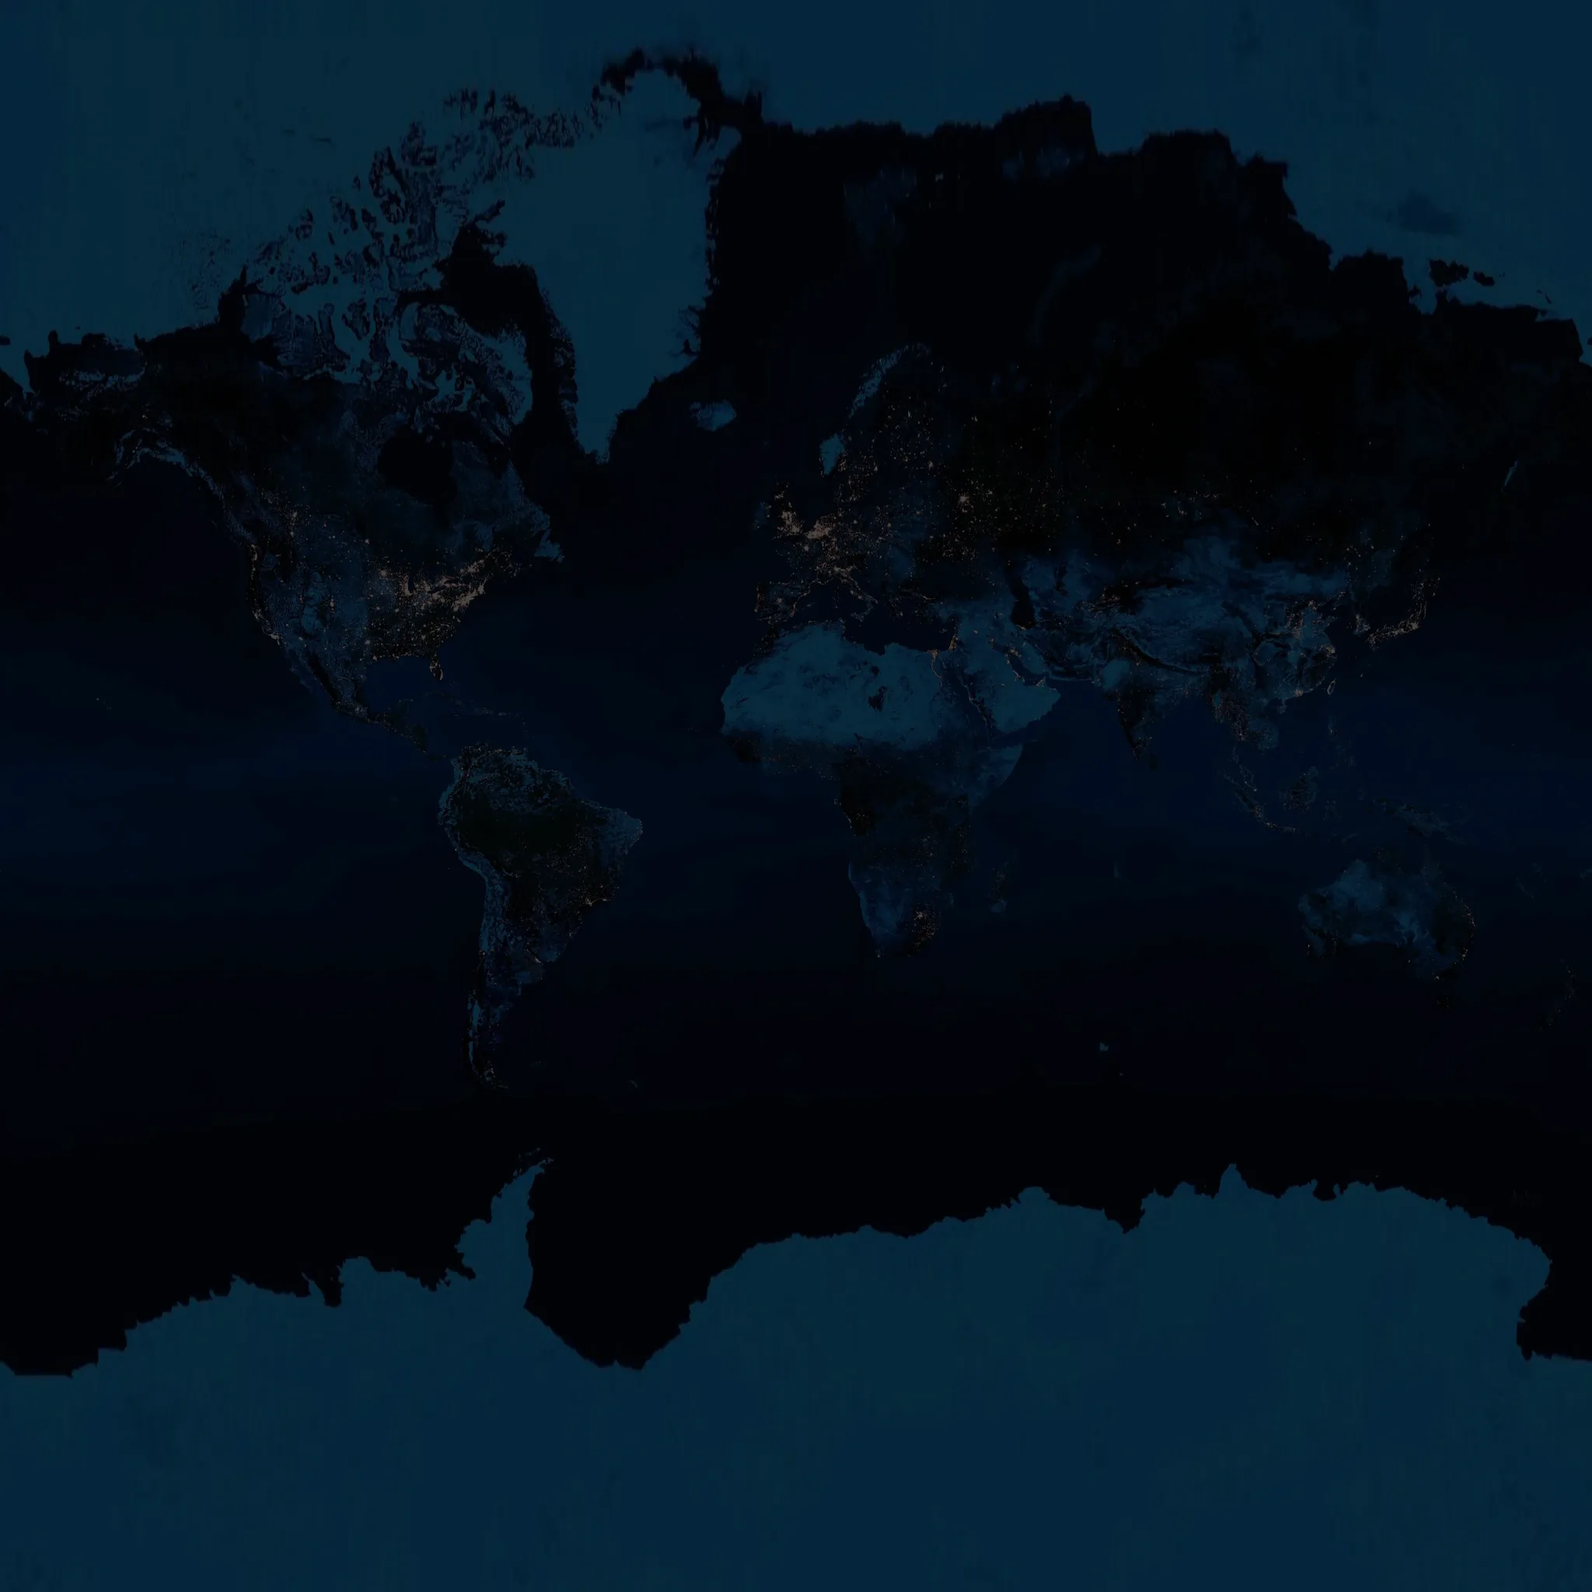
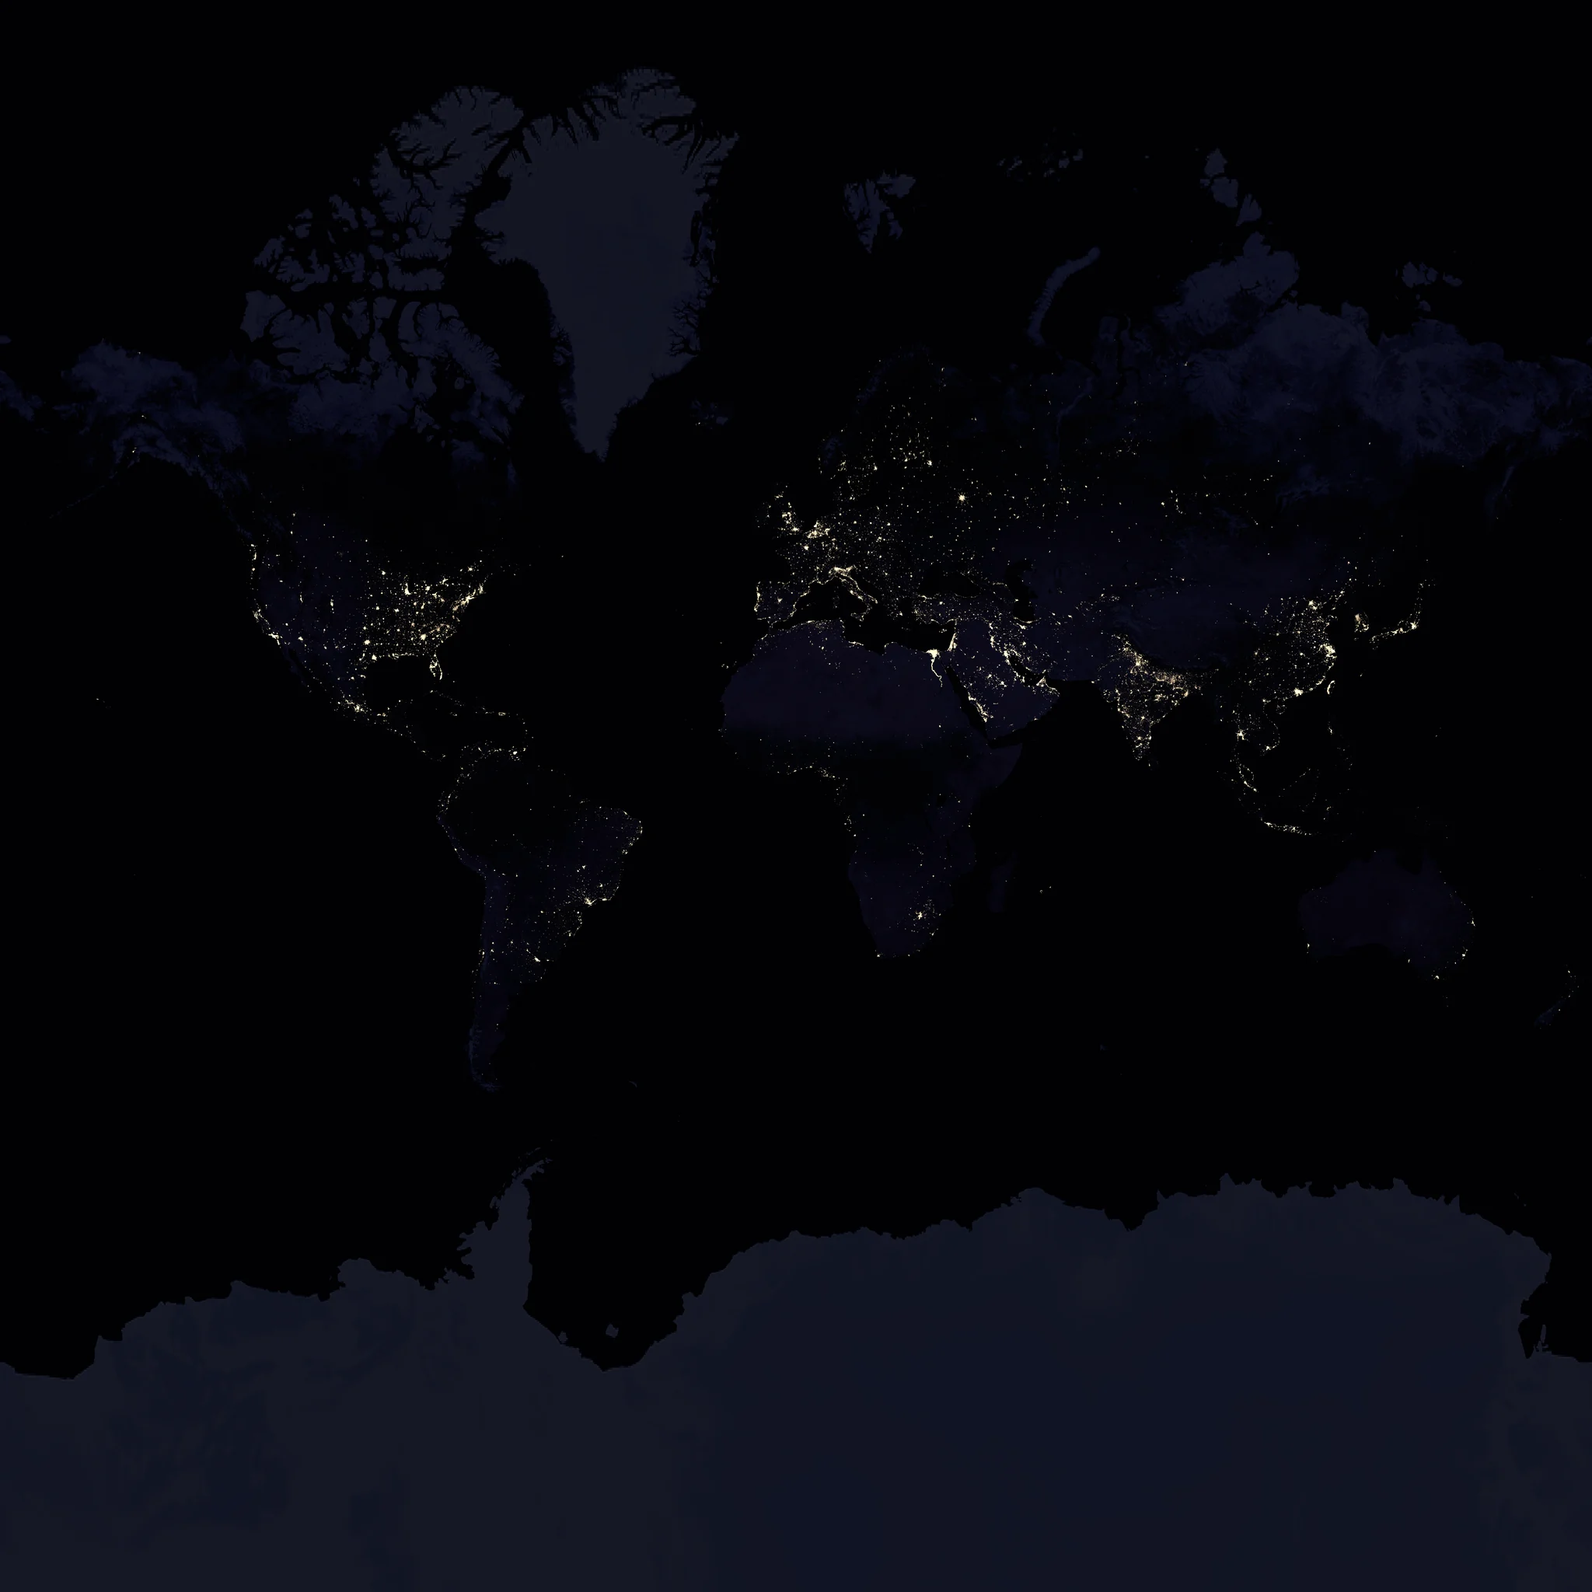
Photorealistic hero Earth: 8K NASA surface, cloud shell, night lights, ocean glint, relief and sunlit atmosphere
Claude-Session: https://claude.ai/code/session_013zk2Cmn7SncUXYSxzr8PKj

diff --git a/src/scripts/hero-globe.ts b/src/scripts/hero-globe.ts
@@ -2,8 +2,6 @@
  * Homepage globe (globe.gl / three.js). Loaded only when the hero is on screen
  * and the browser supports WebGL. Markers are city-level aggregates of listings.
  */
-import { feature } from 'topojson-client';
-import type { Topology, GeometryCollection } from 'topojson-specification';
 import { sunAt } from '@/lib/sun';
 
 export interface CityPoint { city: string; country: string; lat: number; lng: number; count: number }
@@ -11,29 +9,45 @@ export interface CityPoint { city: string; country: string; lat: number; lng: nu
 export interface Handoff { lat: number; lng: number; altitude: number; fov: number; w: number; h: number; top: number; left: number; at: number; image?: string }
 
 export async function mountHeroGlobe(el: HTMLElement, points: CityPoint[], opts: { onSelect: (p: CityPoint) => void }) {
-  const [{ default: Globe }, THREE, topo] = await Promise.all([
-    import('globe.gl'),
-    import('three'),
-    fetch('/data/countries-110m.json').then((r) => r.json() as Promise<Topology>),
-  ]);
-  const countries = feature(topo, topo.objects.countries as GeometryCollection).features;
+  const [{ default: Globe }, THREE] = await Promise.all([import('globe.gl'), import('three')]);
   const reduce = matchMedia('(prefers-reduced-motion: reduce)').matches;
   type Ring = { lat: number; lng: number; me?: boolean };
   const cityRings: Ring[] = points.filter((p) => p.count >= 5);
 
-  // The real Earth (NASA imagery, public domain), lit by the real sun right now: daylight on one side,
-  // city lights on the other, like looking at it from space. Big screens get sharper textures.
-  const big = Math.max(screen.width, screen.height) * (devicePixelRatio || 1) > 1800 && !matchMedia('(max-width: 760px)').matches;
-  const size = big ? 4096 : 2048;
+  // A photographed-from-space Earth, in layers (sources and licences in public/images/earth/SOURCES.md):
+  // NASA Blue Marble surface, a separate cloud shell, NASA Black Marble city lights on the night side,
+  // a water mask for sun glint on the oceans, an elevation map for relief, and a thin sunlit atmosphere.
+  // Phones start with 2K textures, desktops with 4K; big, sharp screens move up to the 8K surface once idle.
+  const phone = matchMedia('(max-width: 760px)').matches || Math.max(screen.width, screen.height) < 900;
+  const dpr = devicePixelRatio || 1;
+  const size = phone ? 2048 : 4096;
   const loader = new THREE.TextureLoader();
-  const tex = (url: string) => new Promise<InstanceType<typeof THREE.Texture>>((res, rej) => loader.load(url, (t) => { t.colorSpace = THREE.SRGBColorSpace; t.anisotropy = 4; res(t); }, undefined, rej));
-  const [day, night] = await Promise.all([tex(`/images/earth/blue-marble-${size}.webp`), tex(`/images/earth/night-${size}.webp`)]);
+  let aniso = 4;
+  const tex = (url: string, color = true) => new Promise<InstanceType<typeof THREE.Texture>>((res, rej) => loader.load(url, (t) => {
+    t.colorSpace = color ? THREE.SRGBColorSpace : THREE.NoColorSpace;
+    t.anisotropy = aniso;
+    t.minFilter = THREE.LinearMipmapLinearFilter;
+    t.magFilter = THREE.LinearFilter;
+    res(t);
+  }, undefined, rej));
+  const E = '/images/earth';
+  const [day, night, clouds, water, height] = await Promise.all([
+    tex(`${E}/earth-day-${size}.webp`), tex(`${E}/earth-night-${size}.webp`), tex(`${E}/earth-clouds-${size}.webp`, false),
+    tex(`${E}/earth-water-4096.webp`, false), tex(`${E}/topology-2048.webp`, false),
+  ]);
+  /** A direction from latitude and longitude, on the same axes as three-globe's own coordinates. */
+  const polar = (lat: number, lng: number) => {
+    const phi = ((90 - lat) * Math.PI) / 180, theta = ((90 - lng) * Math.PI) / 180;
+    return new THREE.Vector3(Math.sin(phi) * Math.cos(theta), Math.cos(phi), Math.sin(phi) * Math.sin(theta));
+  };
+  const sunDir = new THREE.Vector3();
+  const setSun = () => { const [lng, lat] = sunAt(new Date()); sunDir.copy(polar(lat, lng)); };
+  setSun();
   const earth = new THREE.ShaderMaterial({
     uniforms: {
-      dayTexture: { value: day },
-      nightTexture: { value: night },
-      sunPosition: { value: new THREE.Vector2(...sunAt(new Date())) },
-      globeRotation: { value: new THREE.Vector2() },
+      dayMap: { value: day }, nightMap: { value: night }, cloudMap: { value: clouds }, waterMap: { value: water }, heightMap: { value: height },
+      heightTexel: { value: new THREE.Vector2(1 / 2048, 1 / 1024) },
+      sunDir: { value: sunDir },
     },
     vertexShader: VERT,
     fragmentShader: FRAG,
@@ -43,15 +57,9 @@ export async function mountHeroGlobe(el: HTMLElement, points: CityPoint[], opts:
     .globeMaterial(earth)
     .showGlobe(true)
     .showGraticules(false)
-    .atmosphereColor('#a9c8ff')
-    .atmosphereAltitude(0.13)
-    .onZoom(({ lng, lat }) => earth.uniforms.globeRotation!.value.set(lng, lat))
-    // Countries: no fill, just a whisper of a border, so the planet reads as itself.
-    .polygonsData(countries)
-    .polygonAltitude(0.002)
-    .polygonCapColor(() => 'rgba(0,0,0,0)')
-    .polygonSideColor(() => 'rgba(0,0,0,0)')
-    .polygonStrokeColor(() => 'rgba(255,255,255,0.08)')
+    // The atmosphere is drawn below as a sunlit shell, so the built-in, evenly lit halo is off.
+    // No country lines either: a photograph from space has none.
+    .showAtmosphere(false)
     // City markers: icy points sized by listing count
     .pointsData(points)
     .pointLat('lat')
@@ -74,20 +82,50 @@ export async function mountHeroGlobe(el: HTMLElement, points: CityPoint[], opts:
     .ringPropagationSpeed((d: object) => ((d as Ring).me ? 0.9 : 0.8))
     .ringRepeatPeriod((d: object) => ((d as Ring).me ? 1200 : 2200));
 
-  // Diving in: swap to the sharp textures once, so the close-up isn't blurry (phones start light).
-  let sharp = big;
+  // Layers above the surface: clouds just over the ground, then the thin atmosphere.
+  const R = globe.getGlobeRadius();
+  const cloudMat = new THREE.ShaderMaterial({
+    uniforms: { cloudMap: { value: clouds }, sunDir: { value: sunDir } },
+    vertexShader: VERT, fragmentShader: CLOUD_FRAG, transparent: true, depthWrite: false,
+  });
+  const cloudMesh = new THREE.Mesh(new THREE.SphereGeometry(R * 1.004, 128, 96), cloudMat);
+  const airMat = new THREE.ShaderMaterial({
+    uniforms: { sunDir: { value: sunDir }, R: { value: R }, Ra: { value: R * 1.032 } },
+    vertexShader: VERT, fragmentShader: AIR_FRAG, side: THREE.BackSide, transparent: true, depthWrite: false, blending: THREE.AdditiveBlending,
+  });
+  const airMesh = new THREE.Mesh(new THREE.SphereGeometry(R * 1.032, 128, 96), airMat);
+  // three-globe turns its sphere so the map lines up with its coordinates; the shells take the same turn.
+  const surface = globe.scene().getObjectByProperty('material', earth);
+  if (surface) { cloudMesh.rotation.copy(surface.rotation); airMesh.rotation.copy(surface.rotation); }
+  globe.scene().add(cloudMesh, airMesh);
+  // Sharp filtering at grazing angles near the edge of the planet.
+  aniso = Math.min(8, globe.renderer().capabilities.getMaxAnisotropy());
+  for (const t of [day, night, clouds, water]) { t.anisotropy = aniso; t.needsUpdate = true; }
+
+  // Sharper imagery when it can show: the 8K surface on big, dense screens (once the page settles),
+  // and 4K layers on phones when they dive in.
+  const want8k = !phone && Math.max(screen.width, screen.height) * dpr >= 2400 && globe.renderer().capabilities.maxTextureSize >= 8192;
+  let sharp = !phone && !want8k;
+  const upgrade8k = () => tex(`${E}/earth-day-8192.webp`).then((d) => { earth.uniforms.dayMap!.value = d; day.dispose(); }).catch(() => { /* keep 4K */ });
   const sharpen = () => {
     if (sharp) return;
     sharp = true;
-    Promise.all([tex('/images/earth/blue-marble-4096.webp'), tex('/images/earth/night-4096.webp')])
-      .then(([d, n]) => { earth.uniforms.dayTexture!.value = d; earth.uniforms.nightTexture!.value = n; })
+    if (want8k) { upgrade8k(); return; }
+    Promise.all([tex(`${E}/earth-day-4096.webp`), tex(`${E}/earth-night-4096.webp`), tex(`${E}/earth-clouds-4096.webp`, false)])
+      .then(([d, n, c]) => {
+        earth.uniforms.dayMap!.value = d; earth.uniforms.nightMap!.value = n; earth.uniforms.cloudMap!.value = c; cloudMat.uniforms.cloudMap!.value = c;
+      })
       .catch(() => { /* keep the lighter textures */ });
   };
+  if (want8k) {
+    const idle = (window as unknown as { requestIdleCallback?: (f: () => void, o?: { timeout: number }) => void }).requestIdleCallback;
+    if (idle) idle(sharpen, { timeout: 4000 }); else setTimeout(sharpen, 2500);
+  }
   /** Close up, the member dots and rings would be blobs: the World map shows them properly instead. */
   const quiet = (on: boolean) => { globe.pointsData(on ? [] : points); globe.ringsData(on ? [] : cityRings); };
 
   // The sun keeps moving while the page is open.
-  setInterval(() => earth.uniforms.sunPosition!.value.set(...sunAt(new Date())), 60_000);
+  setInterval(setSun, 60_000);
 
   // Continents and oceans named the way a map from space does: spaced capitals for land, italics for water.
   type Label = { lat: number; lng: number; text: string; kind: 'land' | 'sea' | 'me' };
@@ -162,7 +200,7 @@ export async function mountHeroGlobe(el: HTMLElement, points: CityPoint[], opts:
     (c._sphericalDelta ?? c.sphericalDelta)?.set(0, 0, 0);
   };
   /**
-   * The closest the homepage camera comes. The imagery is 4096 px around the Earth, so past this point it
+   * The closest the homepage camera comes. Past this point the surface imagery
    * would soften. World takes over from here at the same framing (zoom ~2.9) and its street map stays sharp.
    */
   const CLOSEST = 0.9;
@@ -241,43 +279,142 @@ export async function mountHeroGlobe(el: HTMLElement, points: CityPoint[], opts:
   };
 }
 
+/** World-space normal, position and texture coordinate, shared by the surface, clouds and atmosphere. */
 const VERT = `
-varying vec3 vNormal;
+varying vec3 vN;
+varying vec3 vPos;
 varying vec2 vUv;
 void main() {
-  vNormal = normalize(normalMatrix * normal);
   vUv = uv;
-  gl_Position = projectionMatrix * modelViewMatrix * vec4(position, 1.0);
+  vN = normalize(mat3(modelMatrix) * normal);
+  vec4 wp = modelMatrix * vec4(position, 1.0);
+  vPos = wp.xyz;
+  gl_Position = projectionMatrix * viewMatrix * wp;
 }`;
 
-/** Day texture where the sun is up, night lights where it isn't, with a soft twilight band between. */
+/** Sunlight colour: warm and low near the terminator, near white when the sun is high. */
+const SUN = `
+vec3 sunColor(float h) { return mix(vec3(1.0, 0.74, 0.55), vec3(1.0, 0.98, 0.95), smoothstep(0.0, 0.22, h)); }
+float cloudAlpha(float c) { return smoothstep(0.1, 0.85, c); }
+const vec3 SKY = vec3(0.30, 0.50, 1.0);
+`;
+
+/**
+ * The surface, lit by the real sun. All maths is in linear light; the output is converted to sRGB at the end.
+ * Daylight: Blue Marble colour x sunlight, with relief from the elevation map, soft cloud shadows,
+ * a sun glint on water, and blue haze toward the edge of the planet. Night: Black Marble city lights,
+ * dimmed under clouds, fading in across a soft twilight band.
+ */
 const FRAG = `
-#define PI 3.141592653589793
-uniform sampler2D dayTexture;
-uniform sampler2D nightTexture;
-uniform vec2 sunPosition;
-uniform vec2 globeRotation;
-varying vec3 vNormal;
+uniform sampler2D dayMap;
+uniform sampler2D nightMap;
+uniform sampler2D cloudMap;
+uniform sampler2D waterMap;
+uniform sampler2D heightMap;
+uniform vec2 heightTexel;
+uniform vec3 sunDir;
+varying vec3 vN;
+varying vec3 vPos;
 varying vec2 vUv;
-float toRad(in float a) { return a * PI / 180.0; }
-vec3 polarToCartesian(in vec2 c) {
-  float theta = toRad(90.0 - c.x);
-  float phi = toRad(90.0 - c.y);
-  return vec3(sin(phi) * cos(theta), cos(phi), sin(phi) * sin(theta));
-}
+${SUN}
 void main() {
-  float invLon = toRad(globeRotation.x);
-  float invLat = -toRad(globeRotation.y);
-  mat3 rotX = mat3(1, 0, 0, 0, cos(invLat), -sin(invLat), 0, sin(invLat), cos(invLat));
-  mat3 rotY = mat3(cos(invLon), 0, sin(invLon), 0, 1, 0, -sin(invLon), 0, cos(invLon));
-  vec3 sun = rotX * rotY * polarToCartesian(sunPosition);
-  float light = dot(normalize(vNormal), normalize(sun));
-  vec3 dayColor = texture2D(dayTexture, vUv).rgb * (0.82 + 0.28 * clamp(light, 0.0, 1.0));
-  vec3 n = texture2D(nightTexture, vUv).rgb;
-  float lum = dot(n, vec3(0.299, 0.587, 0.114));
-  // Deep navy where it's dark, warm city lights where people are.
-  vec3 nightColor = n * 0.5 + smoothstep(0.28, 0.85, lum) * vec3(1.0, 0.84, 0.55) * 0.95;
-  float blend = smoothstep(-0.12, 0.16, light);
-  gl_FragColor = vec4(mix(nightColor, dayColor, blend), 1.0);
+  vec3 N = normalize(vN);
+  vec3 V = normalize(cameraPosition - vPos);
+  vec3 L = normalize(sunDir);
+  float water = texture2D(waterMap, vUv).r;
+
+  // Relief: tilt the normal along the slope of the elevation map (land only).
+  vec3 east = normalize(cross(vec3(0.0, 1.0, 0.0), N) + vec3(1e-5, 0.0, 0.0));
+  vec3 north = cross(N, east);
+  float hl = texture2D(heightMap, vUv - vec2(heightTexel.x, 0.0)).r;
+  float hr = texture2D(heightMap, vUv + vec2(heightTexel.x, 0.0)).r;
+  float hd = texture2D(heightMap, vUv - vec2(0.0, heightTexel.y)).r;
+  float hu = texture2D(heightMap, vUv + vec2(0.0, heightTexel.y)).r;
+  vec3 Nb = normalize(N - 0.9 * (1.0 - water) * ((hr - hl) * east + (hu - hd) * north));
+
+  float h = dot(N, L);
+  float diff = clamp(dot(Nb, L), 0.0, 1.0);
+  float dayK = smoothstep(-0.08, 0.1, h);
+  vec3 sun = sunColor(h);
+
+  // Cloud shadows land a little away from the sun.
+  vec2 toSun = vec2(dot(L, east), dot(L, north));
+  float shade = cloudAlpha(texture2D(cloudMap, vUv - toSun * 0.0012).r);
+  float overhead = cloudAlpha(texture2D(cloudMap, vUv).r);
+
+  vec3 albedo = texture2D(dayMap, vUv).rgb;
+  vec3 col = albedo * sun * diff * 1.4 * (1.0 - 0.4 * shade * dayK);
+
+  // Sun glint: a tight highlight and a broad sheen, on open water only.
+  vec3 H = normalize(L + V);
+  float nh = max(dot(N, H), 0.0);
+  float nv = max(dot(N, V), 0.0);
+  float fres = 0.02 + 0.98 * pow(1.0 - nv, 5.0);
+  float glint = pow(nh, 160.0) * 1.1 + pow(nh, 18.0) * 0.06;
+  col += water * (1.0 - overhead) * glint * sun * dayK * (0.4 + fres);
+
+  // Atmosphere seen through: blue haze growing toward the limb on the lit side.
+  float rim = pow(1.0 - nv, 2.2);
+  col = mix(col, SKY * (0.18 + 0.7 * diff) * sun, rim * 0.6 * smoothstep(-0.2, 0.45, h));
+  col += SKY * 0.012 * dayK;
+
+  // Night: city lights and a faint glow of the land, under the clouds.
+  vec3 n = texture2D(nightMap, vUv).rgb;
+  float lum = dot(n, vec3(0.2126, 0.7152, 0.0722));
+  vec3 lights = smoothstep(0.02, 0.5, lum) * vec3(1.0, 0.78, 0.48) * 1.3 * (1.0 - 0.75 * overhead);
+  float nightK = 1.0 - smoothstep(-0.16, 0.06, h);
+  col += (n * 0.2 + lights) * nightK;
+
+  gl_FragColor = vec4(col, 1.0);
+  #include <colorspace_fragment>
+}`;
+
+/** The cloud shell: white where the sun reaches it, warm at the terminator, nearly invisible at night. */
+const CLOUD_FRAG = `
+uniform sampler2D cloudMap;
+uniform vec3 sunDir;
+varying vec3 vN;
+varying vec3 vPos;
+varying vec2 vUv;
+${SUN}
+void main() {
+  vec3 N = normalize(vN);
+  vec3 V = normalize(cameraPosition - vPos);
+  vec3 L = normalize(sunDir);
+  float a = cloudAlpha(texture2D(cloudMap, vUv).r);
+  float h = dot(N, L);
+  float lit = clamp(h * 1.05 + 0.04, 0.0, 1.0);
+  vec3 col = vec3(0.96) * sunColor(h) * lit * 1.18;
+  float rim = pow(1.0 - max(dot(N, V), 0.0), 2.2);
+  col = mix(col, SKY * lit, rim * 0.35);
+  float alpha = a * 0.95 * (0.12 + 0.88 * smoothstep(-0.25, 0.08, h));
+  gl_FragColor = vec4(col, alpha);
+  #include <colorspace_fragment>
+}`;
+
+/**
+ * The atmosphere: a thin shell seen edge-on. For each pixel, how close the line of sight passes to the
+ * ground sets how much air it crosses; the side facing the sun glows blue, the night side barely at all.
+ */
+const AIR_FRAG = `
+uniform vec3 sunDir;
+uniform float R;
+uniform float Ra;
+varying vec3 vN;
+varying vec3 vPos;
+varying vec2 vUv;
+${SUN}
+void main() {
+  vec3 ro = cameraPosition;
+  vec3 rd = normalize(vPos - ro);
+  vec3 cp = ro + rd * (-dot(ro, rd));
+  float d = length(cp);
+  float hgt = clamp((d - R) / (Ra - R), 0.0, 1.0);
+  float dens = exp(-hgt * 4.5) * (1.0 - hgt);
+  float s = dot(normalize(cp), normalize(sunDir));
+  float sunK = smoothstep(-0.3, 0.45, s);
+  vec3 col = mix(SKY, vec3(0.55, 0.72, 1.0), 0.25) * dens * (0.05 + 0.95 * sunK) * 1.15;
+  float a = clamp(max(col.r, max(col.g, col.b)), 0.0, 1.0);
+  gl_FragColor = vec4(col, a);
   #include <colorspace_fragment>
 }`;

diff --git a/public/images/earth/SOURCES.md b/public/images/earth/SOURCES.md
@@ -1,8 +1,18 @@
 # Earth imagery
 
-- `blue-marble-*.webp`, `day-mercator-*.webp`: NASA Blue Marble (Visible Earth). NASA imagery is in the public domain.
-- `night-*.webp`, `night-mercator-*.webp`: NASA Earth at Night (Black Marble), also public domain. The Mercator night copies
-  are pre-coloured with the homepage globe's night formula (navy dark, warm city lights) so World matches it.
-- The source files came from the `three-globe` package examples (MIT licence), resized to WebP. The Mercator copies were
-  reprojected from the equirectangular images for the World map.
-- `topology-2048.webp`: elevation map from the same source. It is used as a bump map so the land has relief.
+Each layer, where it comes from and its licence. All of them can be used on a commercial website.
+
+| Files | What | Source | Licence |
+| --- | --- | --- | --- |
+| `earth-day-{2048,4096,8192}.webp` | Surface colour | NASA Blue Marble Next Generation, July 2004 (`world.200407.3x21600x10800`), Reto Stöckli, NASA Earth Observatory | Public domain (NASA imagery, no copyright) |
+| (shelf tint baked into the surface) | Shallow seas | NASA Blue Marble NG with topography and bathymetry (`world.topo.bathy.200412`) | Public domain |
+| `earth-night-{2048,4096}.webp` | City lights | NASA Earth Observatory Black Marble 2016 (3 km) | Public domain |
+| `earth-clouds-{2048,4096}.webp` | Cloud cover | Solar System Scope, `8k_earth_clouds` (based on NASA imagery) | CC BY 4.0. Credit needed: "Cloud texture: Solar System Scope (solarsystemscope.com), CC BY 4.0" |
+| `earth-water-4096.webp` | Water mask (for sun glint) | Made from the Blue Marble surface above | Public domain |
+| `topology-2048.webp` | Elevation (relief) | NASA elevation map, from the `three-globe` package examples (MIT) | Public domain / MIT |
+| `day-mercator-*.webp`, `night-mercator-*.webp` | World map copies | The layers above, reprojected to Web Mercator with the clouds and night formula of the homepage globe baked in | As above |
+
+How the files were made: the 21600 px NASA originals were resampled (Lanczos) to 8192 px. Ocean pixels get a
+small lift and a shelf tint taken from the bathymetry version, so the seas read deep blue rather than black.
+Each set was then exported to WebP at 2K, 4K and (surface only) 8K. Phones load 2K; desktops load 4K; large,
+sharp screens move up to the 8K surface once the page is idle.
